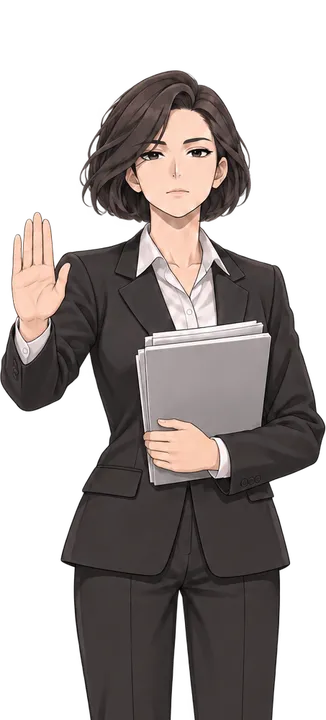
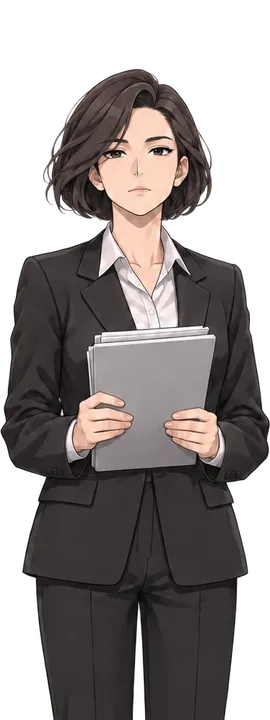
chore: 첫 장면 서기 그림 교체

diff --git a/src/data/pose-names.ts b/src/data/pose-names.ts
@@ -61,7 +61,7 @@ export const POSE_NAMES: Record<CharacterId, string[]> = {
   ],
   clerk: [
     '기본',
-    '손 들어 기립 안내',
+    '두 손으로 서류 들고 정면',
     '서류 건네기',
     '서류 확인',
     '서류 끼고 바른 자세',
